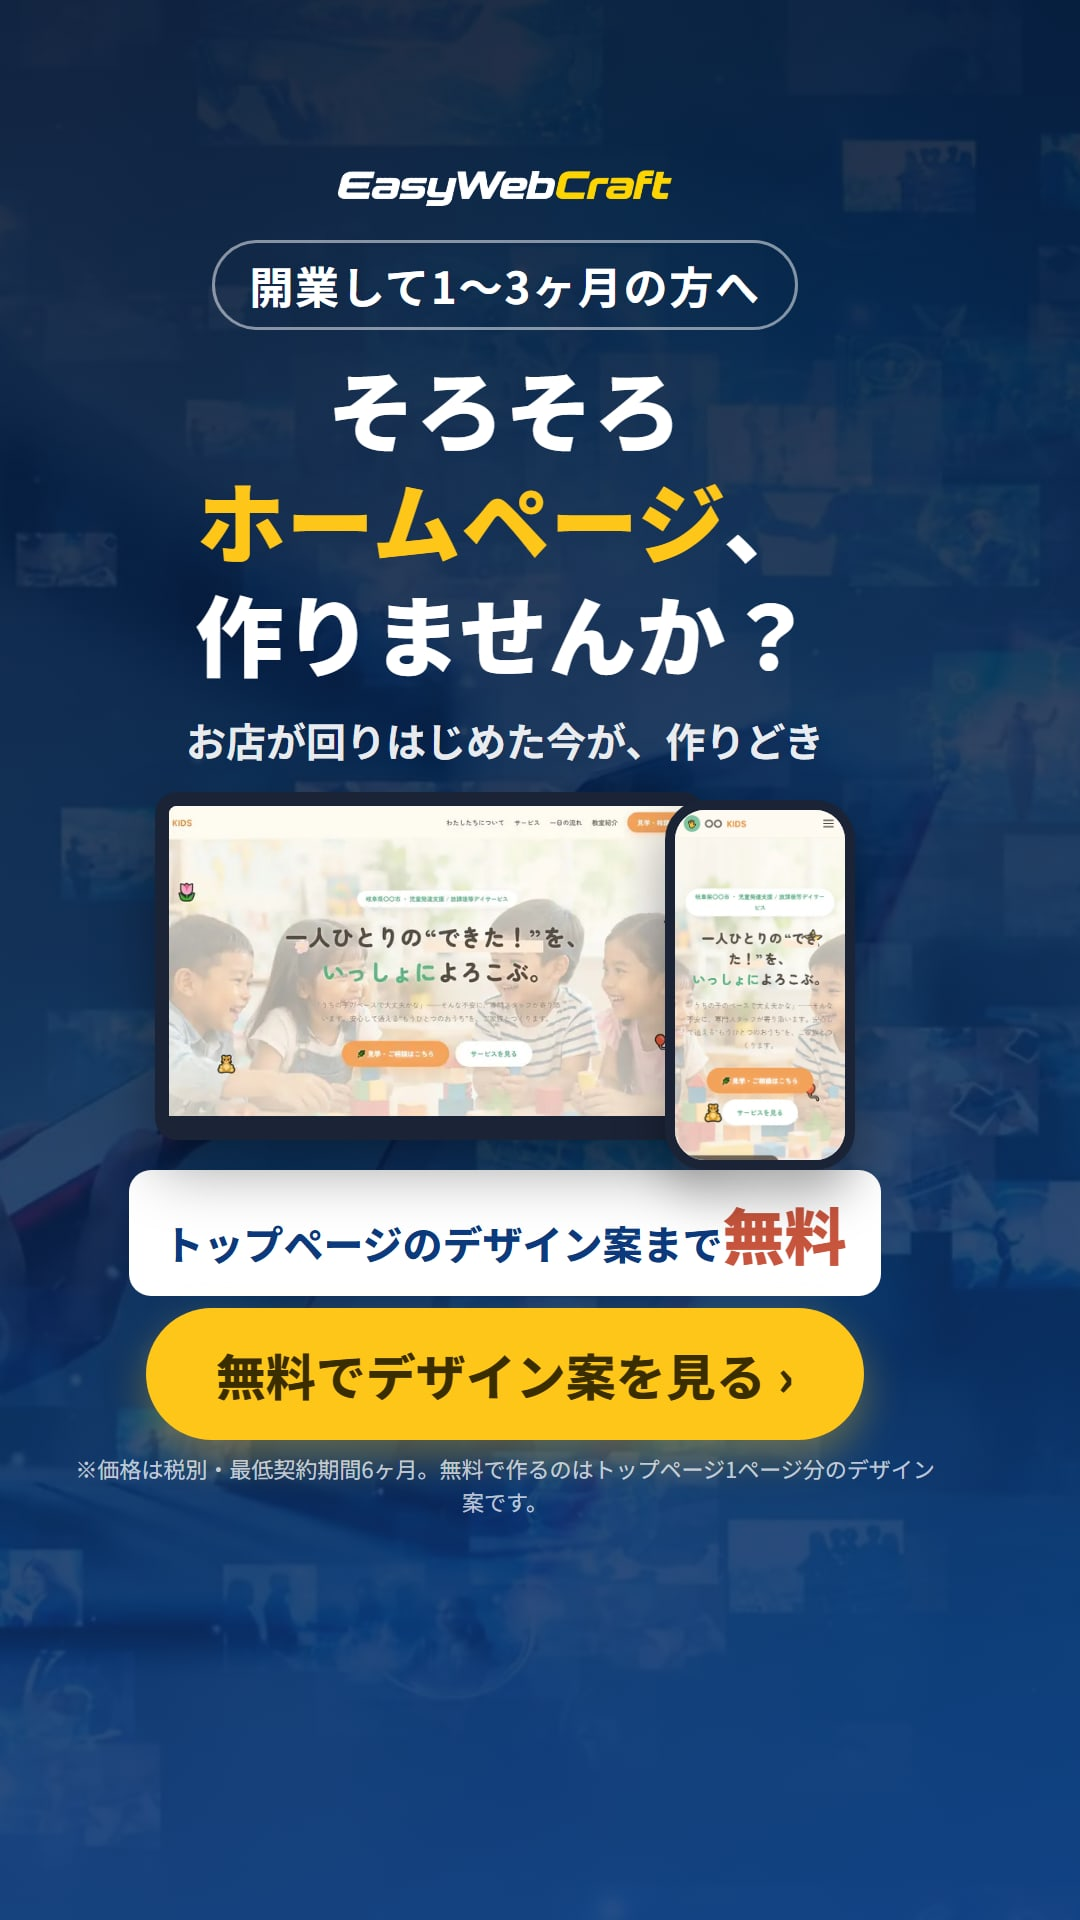
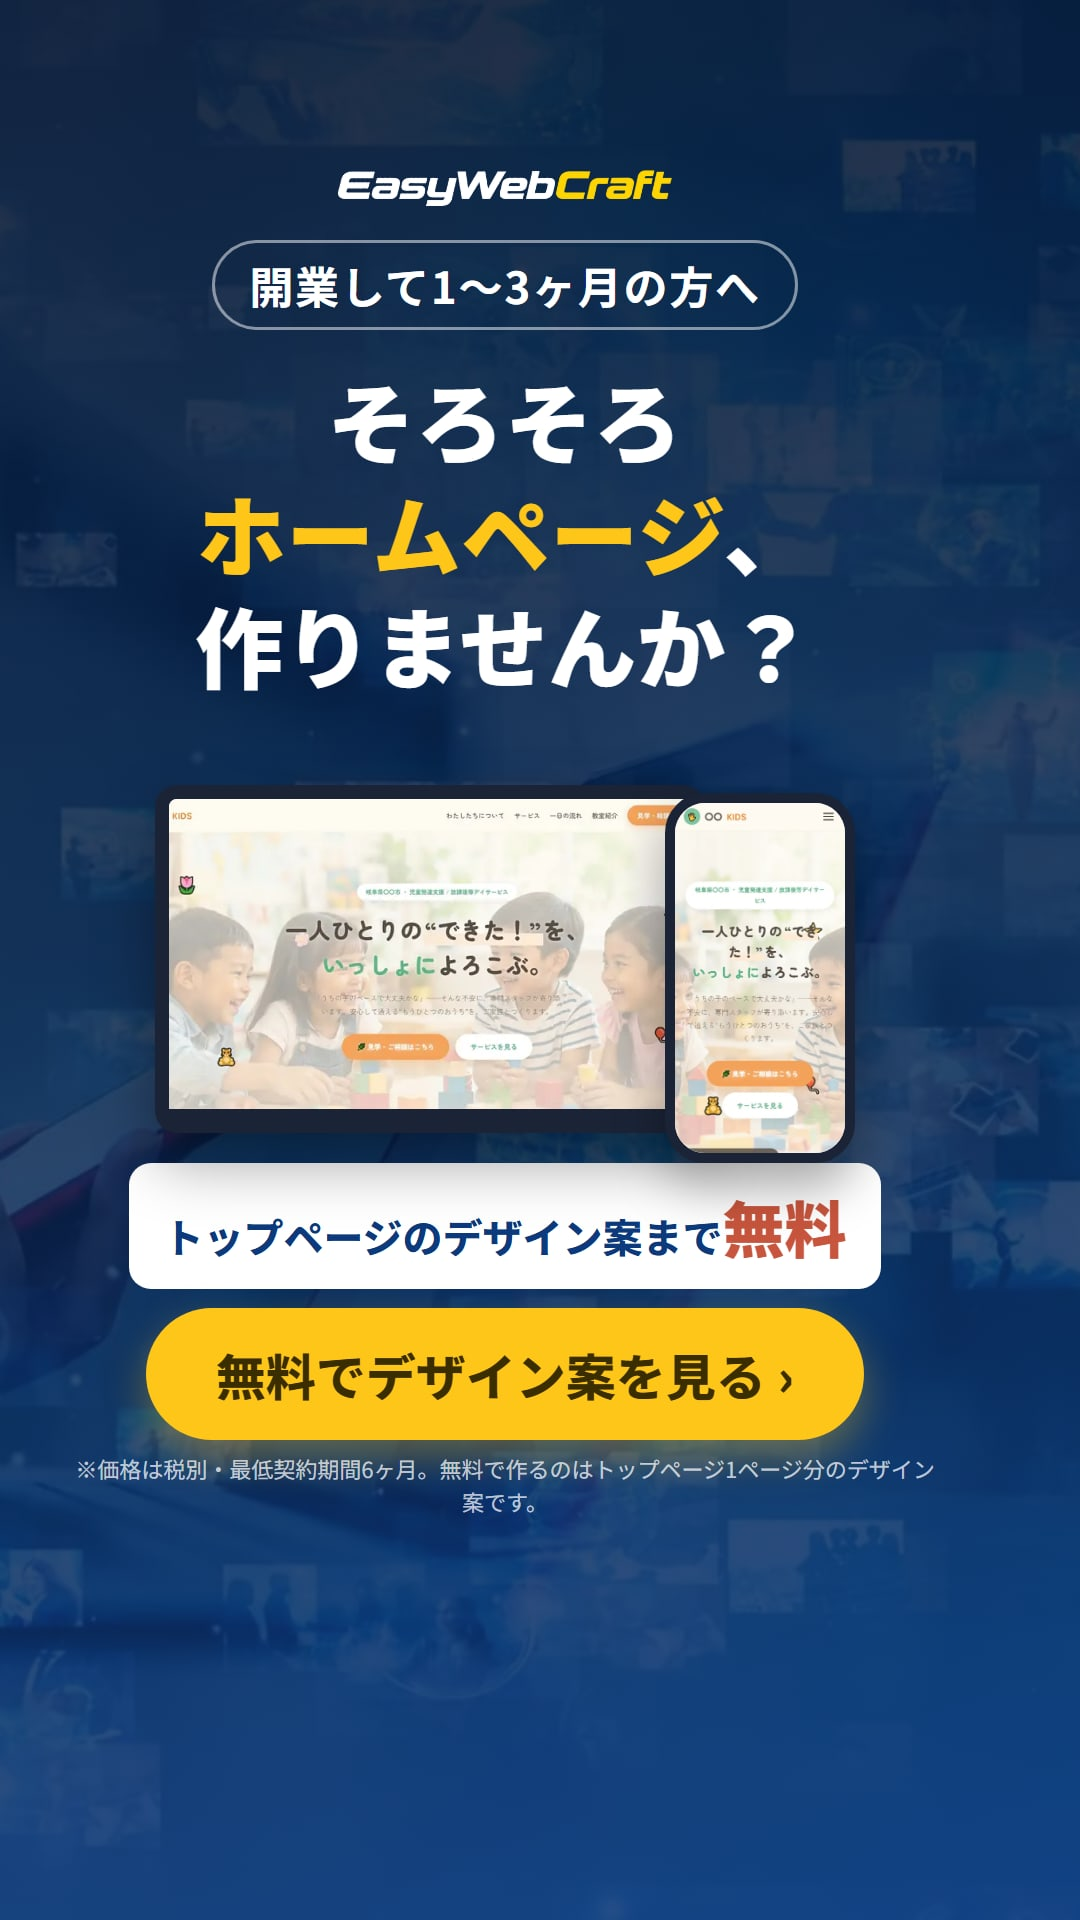
Cの断定表現を削除し、Bの白背景版（TYPE B）を追加
- C:「お店が回りはじめた今が、作りどき」を削除（業種によっては当てはまらないため）
- ad15: Bと同じ文言の白背景版。大きなスマホ画面＋チェック3項目＋価格＋無料の範囲＋CTA。
  1巡目でBと並べ、デザインの型の差を見る

Claude-Session: https://claude.ai/code/session_01G65TiHfa1BUco43NvNDLJF

Changed region(s): [[0.1222, 0.1875, 0.825, 0.6875]]

diff --git a/ads.html b/ads.html
@@ -72,6 +72,24 @@ h1{font-weight:900; line-height:1.28; letter-spacing:.01em}
 .scene.sm li + li::before{top:-33px; font-size:26px}
 .ba.sm .phone{width:250px}
 .ba.sm .chips{width:300px}
+/* TYPE B：白背景 */
+.ad.white{background:#fff; color:var(--ink)}
+.ad.white .brand{background:var(--deep); padding:12px 22px; border-radius:12px}
+.ad.white .fine{color:var(--muted)}
+.w-tag{display:inline-block; background:var(--navy); color:#fff; font-size:40px; font-weight:800; border-radius:999px; padding:10px 36px}
+.ad.white h1{color:var(--ink)}
+.mkr{background:linear-gradient(transparent 58%, #ffe45c 58%); padding:0 6px}
+.w-row{display:flex; align-items:center; gap:26px; width:870px}
+.phone.big{flex:0 0 270px; width:270px; border-color:#1b2437}
+.w-list{list-style:none; margin:0; padding:0; display:flex; flex-direction:column; gap:18px; text-align:left}
+.w-list li{position:relative; background:#f2f5fa; border-radius:18px; padding:18px 16px 18px 62px; font-size:31px; white-space:nowrap; font-weight:800; color:var(--navy); line-height:1.35}
+.w-list li::before{content:"✓"; position:absolute; left:22px; top:50%; transform:translateY(-50%); width:36px; height:36px; border-radius:50%; background:var(--ng); color:#fff; font-size:24px; display:flex; align-items:center; justify-content:center}
+.w-price{font-size:42px; font-weight:800; color:var(--ink)}
+.w-price b{font-family:var(--num); font-weight:900; font-size:80px; color:var(--navy); margin:0 4px}
+.w-price b.s{font-size:56px}
+.w-price span{color:#c3ccd8; margin:0 10px; font-weight:400}
+.w-free{display:inline-block; background:var(--navy); color:#fff; font-size:38px; font-weight:800; border-radius:18px; padding:16px 30px; white-space:nowrap}
+.w-free b{color:var(--accent); font-size:48px}
 /* 画像部品 */
 .mock{position:relative; width:760px; padding-right:150px}
 .mock .pc{border:14px solid #1b2437; border-bottom-width:24px; border-radius:22px; overflow:hidden; background:#fff; box-shadow:0 30px 60px rgba(0,0,0,.35)}
@@ -326,8 +344,7 @@ h1{font-weight:900; line-height:1.28; letter-spacing:.01em}
   <div class="gap-m"></div>
   <h1 class="h-l">そろそろ<br><span class="y">ホームページ</span>、<br>作りませんか？</h1>
   <div class="gap-m"></div>
-  <p class="sub">お店が回りはじめた今が、作りどき</p>
-  <div class="gap-m"></div>
+  <div class="gap-l"></div>
   <div class="mock" style="width:700px"><div class="pc"><img src="img/kids.webp" alt=""></div><div class="phone" style="width:190px"><img src="img/m-kids.webp" alt=""></div></div>
   <div class="sp" style="min-height:30px"></div>
   <p class="free">トップページのデザイン案まで<b>無料</b></p>
@@ -367,6 +384,29 @@ h1{font-weight:900; line-height:1.28; letter-spacing:.01em}
   <p class="sub">まだ何も決まっていなくても大丈夫<br>開業日から逆算して準備します</p>
   <div class="sp" style="min-height:30px"></div>
   <p class="free">トップページのデザイン案まで<b>無料</b></p>
+  <div class="gap-s"></div>
+  <p class="cta">無料でデザイン案を見る</p>
+</div><p class="fine">※価格は税別・最低契約期間6ヶ月。無料で作るのはトップページ1ページ分のデザイン案です。</p></section>
+
+<!-- 15（B・白背景）TYPE B：開業したけどHPまだ作ってない？ -->
+<section class="ad white" id="a15"><div class="in">
+  <p class="brand"><img src="img/logo-mark.webp" alt="EasyWebCraft"></p>
+  <p class="w-tag">開業したばかりの方へ</p>
+  <div class="gap-s"></div>
+  <h1 class="h-l">開業したけど、<br><span class="mkr">HPまだ作ってない？</span></h1>
+  <div class="gap-m"></div>
+  <div class="w-row">
+    <div class="phone big"><img src="img/m-salon.webp" alt=""></div>
+    <ul class="w-list">
+      <li>Instagramだけで営業中</li>
+      <li>名刺にURLがない</li>
+      <li>「HPありますか？」と聞かれた</li>
+    </ul>
+  </div>
+  <div class="sp" style="min-height:30px"></div>
+  <p class="w-price">初期費用<b>0</b>円<span>｜</span>月額<b class="s">5,980</b>円～</p>
+  <div class="gap-s"></div>
+  <p class="w-free">トップページのデザイン案まで<b>無料</b></p>
   <div class="gap-s"></div>
   <p class="cta">無料でデザイン案を見る</p>
 </div><p class="fine">※価格は税別・最低契約期間6ヶ月。無料で作るのはトップページ1ページ分のデザイン案です。</p></section>

diff --git a/index.html b/index.html
@@ -38,12 +38,12 @@ code{background:var(--bg); padding:0 5px; border-radius:4px}
   <p class="lead">開業LP（ホームページのデザイン案を無料で作ります）に合わせた縦長画像 1080×1920。画像をタップすると原寸のPNGが開きます。</p>
   <div class="links">
     <a href="https://easywebcraft.github.io/easyweb-lp/kaigyo.html" target="_blank" rel="noopener">リンク先のLP</a>
-    <a href="ads.html">HTMLで見る（全14枚）</a>
+    <a href="ads.html">HTMLで見る（全15枚）</a>
     <a href="ogp.html">OGP画像のHTML</a>
   </div>
 
-  <h2>1巡目：最初に配信する6本</h2>
-  <p class="lead">Fを基準に、B・D・E・G・Iの反応を比べる。</p>
+  <h2>1巡目：最初に配信する6本（＋Bの白背景版）</h2>
+  <p class="lead">Fを基準に、B・D・E・G・Iの反応を比べる。B'はBと同じ文言で見た目だけ変えたもの。BとB'の差で、デザインの型が効くかを見る。</p>
   <div class="grid">
       <article class="card">
         <a href="out/ad01.png" target="_blank" rel="noopener"><img src="jpg/ad01.jpg" alt="ホームページのデザイン案を無料で作ります" loading="lazy" width="1080" height="1920"></a>
@@ -58,6 +58,13 @@ code{background:var(--bg); padding:0 5px; border-radius:4px}
         <p class="tgt">開業直後</p>
         <p class="cap"><span>広告文案</span><br>開業したけどHPがない方へ。<br>今からでも大丈夫。</p>
         <p class="dl"><a href="out/ad11.png" download>PNGを保存</a>（ad11.png）</p>
+      </article>
+      <article class="card">
+        <a href="out/ad15.png" target="_blank" rel="noopener"><img src="jpg/ad15.jpg" alt="開業したけど、HPまだ作ってない？（白背景）" loading="lazy" width="1080" height="1920"></a>
+        <p class="no"><b>B'</b>開業したけど、HPまだ作ってない？</p>
+        <p class="tgt">開業直後・白背景（TYPE B）<span class="base" style="background:#0d3a7d">見た目の比較用</span></p>
+        <p class="cap"><span>広告文案</span><br>開業したけどHPがない方へ。<br>今からでも大丈夫。</p>
+        <p class="dl"><a href="out/ad15.png" download>PNGを保存</a>（ad15.png）</p>
       </article>
       <article class="card">
         <a href="out/ad07.png" target="_blank" rel="noopener"><img src="jpg/ad07.jpg" alt="Instagramだけで大丈夫？" loading="lazy" width="1080" height="1920"></a>
